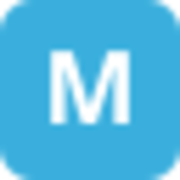
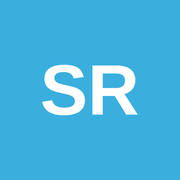
reader: rename to spfy rss with a new SR mark
The project is no longer a Miniflux frontend: it owns fetching, scheduling
and WebSub itself. Rename the branding to match the repo, the service and
spfy-rss.spiffy.tech, and redraw the icon (favicon, apple-touch, 512) as a
white SR on the existing blue.

package.json and bun.lock follow the workspace name; nothing imports it.

diff --git a/test/webview.test.ts b/test/webview.test.ts
@@ -390,7 +390,7 @@ it('display pipeline sanitizes hostile HTML in a real browser', async () => {
           sections: document.querySelector('[data-testid="feed-panel"]')?.textContent?.includes('Sections') ?? false,
           hasLatest: document.querySelector('[data-testid="feed-panel"]')?.textContent?.includes('Latest') ?? false,
           hasStarred: document.querySelector('[data-testid="feed-panel"]')?.textContent?.includes('Starred') ?? false,
-          hasBrand: document.body.textContent?.includes('Miniflux Reader') ?? false,
+          hasBrand: document.body.textContent?.includes('spfy rss') ?? false,
           feedMenu: !!document.querySelector('[data-testid="feed-menu-trigger"]'),
           bodyOverflow: getComputedStyle(document.body).overflow,
           documentScrolls: (document.scrollingElement?.scrollHeight ?? 0) > window.innerHeight + 1,
@@ -532,7 +532,7 @@ it('display pipeline sanitizes hostile HTML in a real browser', async () => {
     expect(report.sections).toBe(true) // "Sections" heading
     expect(report.hasLatest).toBe(false) // no aggregate row: home is a link list
     expect(report.hasStarred).toBe(true) // Starred row
-    expect(report.hasBrand).toBe(true) // "Miniflux Reader" brand
+    expect(report.hasBrand).toBe(true) // "spfy rss" brand
     expect(report.feedMenu).toBe(true) // feed-menu trigger (per-feed options)
     // Scrolling contract: the document never scrolls; the panes do. Auto-read's
     // scroll listener, next/prev scrollToEntry and the sidebar all ride on it.

diff --git a/src/pages/Login.tsx b/src/pages/Login.tsx
@@ -46,21 +46,21 @@ export const LoginPage = () => {
       >
         <div class="flex flex-col items-center gap-3 text-center">
           <svg aria-hidden="true" viewBox="0 0 32 32" class="w-14 h-14">
-            <rect width="32" height="32" rx="6" fill="#0e7490" />
+            <rect width="32" height="32" rx="6" fill="#3aafdd" />
             <text
               x="16"
-              y="22"
-              font-size="18"
+              y="20.5"
+              font-size="12.7"
               font-family="sans-serif"
               font-weight="bold"
               text-anchor="middle"
               fill="white"
             >
-              M
+              SR
             </text>
           </svg>
           <div class="flex flex-col gap-1.5">
-            <h1 class="text-lg font-semibold leading-6">Sign in to Miniflux Reader</h1>
+            <h1 class="text-lg font-semibold leading-6">Sign in to spfy rss</h1>
             <p class="text-sm text-gray-500 leading-5">
               Uses your reader username and password. Sessions are cookie-based and expire after 30
               days; signing out clears this browser's session.

diff --git a/src/Document.tsx b/src/Document.tsx
@@ -15,14 +15,11 @@ export default function Document(props: { children?: JSX.Element }) {
       <head>
         <meta charset="utf-8" />
         <meta name="viewport" content="width=device-width, initial-scale=1, viewport-fit=cover" />
-        <title>Miniflux Reader</title>
-        <meta
-          name="description"
-          content="A focused reader for your self-hosted Miniflux subscriptions."
-        />
+        <title>spfy rss</title>
+        <meta name="description" content="A focused, self-hosted RSS reader." />
         <meta name="theme-color" content="#0e7490" />
         <meta name="apple-mobile-web-app-capable" content="yes" />
-        <meta name="apple-mobile-web-app-title" content="Reader" />
+        <meta name="apple-mobile-web-app-title" content="spfy rss" />
         <meta name="apple-mobile-web-app-status-bar-style" content="default" />
         <link rel="manifest" href="/manifest.json" />
         <link rel="icon" href="/favicon.svg" type="image/svg+xml" />

diff --git a/scripts/backport-schedule.ts b/scripts/backport-schedule.ts
@@ -21,7 +21,7 @@
  * runs against a local file and inside the deployed container:
  *
  *   local: bun run scripts/backport-schedule.ts payload.json [dbPath]
- *   prod:  cat payload.json | uc -c homelab-spfy exec -T miniflux-frontend -- \
+ *   prod:  cat payload.json | uc -c homelab-spfy exec -T spfy-rss -- \
  *            sh -c 'cat > /tmp/backfill.ts && bun /tmp/backfill.ts'
  *          (payload on stdin; DB path from READER_DB_PATH)
  */

diff --git a/scripts/decode-entity-titles.ts b/scripts/decode-entity-titles.ts
@@ -12,7 +12,7 @@
  *
  * The runtime image ships no source, so bundle before running it in-container:
  *   bun build scripts/decode-entity-titles.ts --target bun --outfile /tmp/x.js
- *   cat /tmp/x.js | uc -c homelab-spfy service exec -T miniflux-frontend -- \
+ *   cat /tmp/x.js | uc -c homelab-spfy service exec -T spfy-rss -- \
  *     sh -c 'cat > /tmp/x.js && bun /tmp/x.js --apply'
  */
 import { Database } from 'bun:sqlite'

diff --git a/test/health.test.ts b/test/health.test.ts
@@ -25,7 +25,7 @@ test('/health is 200 while the database answers', () => {
 test('/health is 503 when the database probe throws', () => {
   const report = livenessReport(
     () => {
-      throw new Error('unable to open database file: /srv/miniflux-frontend/reader.sqlite')
+      throw new Error('unable to open database file: /srv/spfy-rss/reader.sqlite')
     },
     heartbeat(),
     5,

diff --git a/src/server/opml.ts b/src/server/opml.ts
@@ -191,7 +191,7 @@ export function exportOpml(handle: ReaderHandle, userId: UserId): string {
   ]
 
   return generateOpml({
-    head: { title: 'Miniflux Reader', dateCreated: new Date() },
+    head: { title: 'spfy rss', dateCreated: new Date() },
     body: { outlines },
   })
 }

diff --git a/src/components/TopToolbar.tsx b/src/components/TopToolbar.tsx
@@ -42,7 +42,7 @@ export const TopToolbar = (props: { onToggleSidebar: () => void; reading: boolea
       </button>
 
       <a href="/" class="hidden md:inline shrink-0 font-semibold text-lg mr-auto">
-        Miniflux Reader
+        spfy rss
       </a>
 
       <FeedMenu />

diff --git a/server.ts b/server.ts
@@ -49,4 +49,4 @@ Bun.serve({
   },
 })
 
-console.log(`Miniflux Reader listening on http://localhost:${port}`)
+console.log(`spfy rss listening on http://localhost:${port}`)

diff --git a/README.md b/README.md
@@ -1,9 +1,9 @@
-# miniflux-frontend
+# spfy rss
 
-A focused, self-hosted RSS reader for a Miniflux account — it owns its own feed
-database now: fetching, scheduling and WebSub live here, not behind the Miniflux
-API. Built with **Bun + Solid 2 (SolidStart-style server functions) + Vite +
-Tailwind 4 + SQLite (Drizzle)**.
+A focused, self-hosted RSS reader that owns its own feed database: fetching,
+scheduling and WebSub live here, not behind a Miniflux API. Built with **Bun +
+Solid 2 (SolidStart-style server functions) + Vite + Tailwind 4 + SQLite
+(Drizzle)**.
 
 ## Architecture
 

diff --git a/LICENSE.md b/LICENSE.md
@@ -16,8 +16,8 @@ This license is not legal advice and does not create an attorney-client relation
 
 ## Credit
 
-**Name of this software:** miniflux-frontend  
-**Project home:** <https://github.com/spiffytech/rss-frontend>  
+**Name of this software:** spfy rss  
+**Project home:** <https://github.com/spiffytech/spfy-rss>  
 **Original copyright holder(s):** spiffytech
 
 ## Purpose
